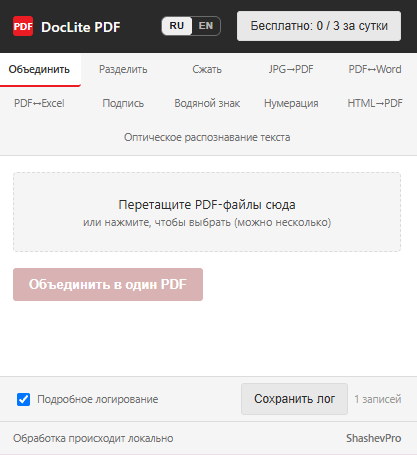
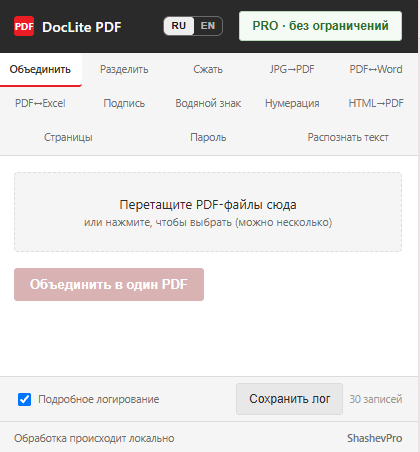
1.5.0: рабочий центр документов — страницы, пароль, печати, точный OCR

diff --git a/README.md b/README.md
@@ -4,11 +4,12 @@
 
 # DocLite PDF
 
-**Одиннадцать инструментов для работы с PDF прямо в браузере, включая
-распознавание текста (OCR). Документы обрабатываются на вашем компьютере
+**Рабочий центр документов прямо в браузере: объединение, сжатие, Word
+и Excel, подписи и печати, пароль на PDF, работа со страницами
+и распознавание текста (OCR). Документы обрабатываются на вашем компьютере
 и никуда не загружаются.**
 
-[**Установить из Chrome Web Store**](https://chromewebstore.google.com/detail/doclite-pdf-%E2%80%94-10-%D0%B8%D0%BD%D1%81%D1%82%D1%80%D1%83%D0%BC%D0%B5/jdomnjidenomgdjpmnoegpfkjmhgfngn) · [Сайт продукта](https://www.shashevpro.ru/doclite/) · [English](README.en.md)
+[**Установить из Chrome Web Store**](https://chromewebstore.google.com/detail/jdomnjidenomgdjpmnoegpfkjmhgfngn) · [Сайт продукта](https://www.shashevpro.ru/doclite/) · [English](README.en.md)
 
 </div>
 
@@ -34,21 +35,23 @@ DocLite работает внутри браузера. Файл не перед
 
 | | Что делает |
 |---|---|
-| **Объединить** | Несколько файлов в один документ, порядок задаёте сами |
+| **Объединить** | Несколько файлов в один; порядок — перетаскиванием, стрелками, с номерами |
 | **Разделить** | По страницам или диапазонам, результат одним архивом |
-| **Сжать** | Уменьшает вес, чтобы документ прошёл по ограничениям почты |
-| **JPG → PDF** | Фотографии и сканы собираются в один файл |
-| **PDF ↔ Word** | Текст с сохранением абзацев, заголовков и нумерованных пунктов |
-| **PDF ↔ Excel** | Таблицы разбираются по столбцам, числа остаются числами |
-| **Подпись** | Изображение подписи или печати в нужное место страницы |
-| **Водяной знак** | Текст или картинка, наклон и прозрачность настраиваются |
-| **Нумерация** | Номера страниц в любом углу, с любой начальной цифры |
+| **Сжать** | Уменьшает вес для почты; большие файлы сжимаются в фоне |
+| **JPG → PDF** | Фотографии и сканы в один файл, в нужном порядке |
+| **PDF ↔ Word** | Абзацы, таблицы с рамками, картинки и оформление остаются на местах |
+| **PDF ↔ Excel** | Таблицы с рамками и объединёнными ячейками, суммы и даты — значениями |
+| **Подпись и печати** | Подпись, печать, штамп «Копия верна» — на одну страницу или на все |
+| **Водяной знак** | Текст или картинка; можно сразу на несколько файлов |
+| **Нумерация** | Номера страниц в любом углу; можно сразу на несколько файлов |
 | **HTML → PDF** | Веб-страница или свой HTML сохраняется как документ |
-| **Распознавание текста (OCR)** | Скан или фото — в PDF с текстовым слоем или сразу в Word |
+| **Страницы** | Миниатюры страниц: переставить, повернуть, удалить |
+| **Пароль** | Поставить или снять пароль на PDF, шифрование AES-256 |
+| **Распознать текст (OCR)** | Скан или фото — в PDF с текстовым слоем или в Word; есть точный режим |
 
-Распознавание и конвертация больших PDF в Word идут в фоне: поставили задачу,
-закрыли окно, занимаетесь своими делами — по готовности придёт уведомление
-с предложением сохранить результат.
+Распознавание, конвертация больших PDF в Word и сжатие больших файлов идут
+в фоне: поставили задачу, закрыли окно, занимаетесь своими делами — по
+готовности придёт уведомление с предложением сохранить результат.
 
 ---
 
@@ -56,17 +59,13 @@ DocLite работает внутри браузера. Файл не перед
 
 <div align="center">
 
-| Объединение | Водяной знак |
+| Объединение | Пароль на PDF |
 |---|---|
-| <img src="screenshots/merge-ru.png" width="380"> | <img src="screenshots/watermark-ru.png" width="380"> |
+| <img src="screenshots/merge-ru.png" width="380"> | <img src="screenshots/password-ru.png" width="380"> |
 
-| Подпись | Распознавание текста (OCR) |
+| Подпись и печати | Распознавание текста (OCR) |
 |---|---|
 | <img src="screenshots/signature-ru.png" width="380"> | <img src="screenshots/ocr-ru.png" width="380"> |
-
-**Работа в фоне** — задачу можно поставить и закрыть окно, обработка продолжится:
-
-<img src="screenshots/background-ru.png" width="380">
 
 </div>
 
@@ -74,12 +73,16 @@ DocLite работает внутри браузера. Файл не перед
 
 ## Сколько стоит
 
-**Бесплатно** — три операции в сутки. Не «три инструмента из одиннадцати», а любые
+**Бесплатно** — три операции в сутки. Не «три инструмента из всех», а любые
 три: всё открыто сразу, ничего не заперто за платной стеной. Счётчик обнуляется
 каждый день, а ошибка обработки попытку не расходует.
 
 **PRO — 300 ₽ один раз.** Без подписки и автопродления. Лицензия бессрочная,
-на одно устройство.
+на одно устройство. Все инструменты, включая новые.
+
+<div align="center">
+<img src="screenshots/pro-ru.png" width="380">
+</div>
 
 ---
 
@@ -88,8 +91,10 @@ DocLite работает внутри браузера. Файл не перед
 - Содержимое документов не покидает ваш компьютер и не передаётся никому.
 - В сеть уходят только два вида запросов: проверка ключа при активации
   платной версии и — один раз, только если вы сами включите распознавание
-  текста — скачивание языковых моделей OCR (около 4 МБ на язык, дальше
-  распознавание работает офлайн).
+  текста — скачивание языковых моделей OCR (около 4 МБ на язык, для точного
+  режима около 15 МБ; дальше распознавание работает офлайн).
+- Пароль на PDF ставится и снимается на вашем компьютере: пароль никуда
+  не отправляется и нигде не сохраняется.
 - Ни аналитики, ни счётчиков, ни рекламных сетей в расширении нет.
 - Доступа к содержимому посещаемых сайтов расширение не запрашивает.
 
@@ -106,17 +111,22 @@ DocLite работает внутри браузера. Файл не перед
   объединение или разделение без сжатия.
 - **PDF → Word и PDF → Excel работают с текстовыми PDF, а не со сканами.**
   Для сканов и фото — отдельный инструмент, распознавание текста (OCR).
-- **При конвертации сохраняются абзацы и структура, но не точная вёрстка**
-  исходного документа. Рамки таблиц пока не восстанавливаются.
+- **Вёрстка при конвертации сохраняется близко к исходной, но не пиксель
+  в пиксель** — сложные документы стоит проверить глазами.
 - **OCR распознаёт русский и английский языки** и убирает явный мусор
   (узоры, печати, водяные знаки), но не гарантирует идеальный результат
-  на сильно повреждённых или очень мелких сканах. Документы с защитной сеткой
-  (бланки, паспорта) и фотографии документов — не его задача.
+  на сильно повреждённых или очень мелких сканах. Для мелкого шрифта и плохих
+  сканов есть точный режим — он медленнее примерно в 2,5 раза. Документы
+  с защитной сеткой (бланки, паспорта) распознаются лишь частично.
 - **Если в PDF уже есть текст, распознавание не запускается** — текст берётся
   из документа, это точнее любого распознавания. В документе со смешанными
   страницами распознаются только страницы без текста.
 - **Excel → PDF не переносит картинки внутри листа** (логотипы, печати)
   и колонтитулы.
+- **Снять пароль можно, только зная его.** Файл, который открывается без
+  пароля, но с ограничениями на печать или изменение, освобождается от них
+  без пароля. Другие инструменты защищённый файл не обрабатывают и
+  подсказывают сначала снять пароль.
 - **Размер файлов** — до 300 МБ на файл и до 600 МБ суммарно при объединении:
   всё обрабатывается в памяти браузера.
 

diff --git a/README.en.md b/README.en.md
@@ -4,11 +4,12 @@
 
 # DocLite PDF
 
-**Eleven tools for working with PDF files, right inside your browser,
-including text recognition (OCR). Your documents are processed on your own
-computer and are never uploaded anywhere.**
+**A document workspace right inside your browser: merge, compress, Word
+and Excel, signatures and stamps, PDF passwords, page editing and text
+recognition (OCR). Your documents are processed on your own computer and
+are never uploaded anywhere.**
 
-[**Install from the Chrome Web Store**](https://chromewebstore.google.com/detail/doclite-pdf-%E2%80%94-10-%D0%B8%D0%BD%D1%81%D1%82%D1%80%D1%83%D0%BC%D0%B5/jdomnjidenomgdjpmnoegpfkjmhgfngn) · [Product website](https://www.shashevpro.ru/doclite/en/) · [Русский](README.md)
+[**Install from the Chrome Web Store**](https://chromewebstore.google.com/detail/jdomnjidenomgdjpmnoegpfkjmhgfngn) · [Product website](https://www.shashevpro.ru/doclite/en/) · [Русский](README.md)
 
 </div>
 
@@ -34,21 +35,23 @@ Turn off your network and see for yourself.
 
 | | What it does |
 |---|---|
-| **Merge** | Several files into one document, in the order you choose |
+| **Merge** | Several files into one; set the order by dragging or with arrows |
 | **Split** | By page or by range, delivered as a single archive |
-| **Compress** | Brings the file size down so it fits an email limit |
-| **JPG → PDF** | Photos and scans collected into one document |
-| **PDF ↔ Word** | Text with its paragraphs, headings and numbered items preserved |
-| **PDF ↔ Excel** | Tables split into real columns, numbers stay numbers |
-| **Signature** | Place an image of your signature or stamp on the page |
-| **Watermark** | Text or image, with adjustable tilt and opacity |
-| **Page numbers** | Any corner, starting from any number you like |
+| **Compress** | Brings the size down for email; large files compress in the background |
+| **JPG → PDF** | Photos and scans into one document, in the order you choose |
+| **PDF ↔ Word** | Paragraphs, bordered tables, images and formatting stay in place |
+| **PDF ↔ Excel** | Tables with borders and merged cells; amounts and dates as real values |
+| **Signature & stamps** | Signature, stamp, a “True copy” certification — on one page or all |
+| **Watermark** | Text or image; several files at once |
+| **Page numbers** | Any corner, any starting number; several files at once |
 | **HTML → PDF** | Save a web page or your own markup as a document |
-| **Text recognition (OCR)** | Turn a scan or photo into a searchable PDF or a Word file |
+| **Pages** | Page thumbnails: reorder, rotate, delete |
+| **Password** | Add or remove a PDF password, AES-256 encryption |
+| **Recognize text (OCR)** | A scan or photo into a searchable PDF or Word; a precise mode too |
 
-Recognition and conversion of large PDFs to Word run in the background: queue a
-file, close the window, get on with your work — a notification will offer to
-save the result when it is ready.
+Recognition, conversion of large PDFs to Word and compression of large files
+run in the background: queue a file, close the window, get on with your work —
+a notification will offer to save the result when it is ready.
 
 ---
 
@@ -56,11 +59,11 @@ save the result when it is ready.
 
 <div align="center">
 
-| Merge | Watermark |
+| Merge | PDF password |
 |---|---|
-| <img src="screenshots/merge-en.png" width="380"> | <img src="screenshots/watermark-en.png" width="380"> |
+| <img src="screenshots/merge-en.png" width="380"> | <img src="screenshots/password-en.png" width="380"> |
 
-| Signature | Text recognition (OCR) |
+| Signature & stamps | Text recognition (OCR) |
 |---|---|
 | <img src="screenshots/signature-en.png" width="380"> | <img src="screenshots/ocr-en.png" width="380"> |
 
@@ -70,12 +73,16 @@ save the result when it is ready.
 
 ## Pricing
 
-**Free** — three operations a day. Not "three tools out of eleven", but any three:
+**Free** — three operations a day. Not "three tools out of the lot", but any three:
 everything is unlocked from the start, nothing is held behind a paywall. The
 counter resets daily, and a failed operation does not use up an attempt.
 
 **PRO — 300 RUB, paid once.** No subscription, no auto-renewal. A perpetual
-licence for one device.
+licence for one device. All tools, including new ones.
+
+<div align="center">
+<img src="screenshots/pro-en.png" width="380">
+</div>
 
 ---
 
@@ -84,8 +91,10 @@ licence for one device.
 - Document contents never leave your computer and are shared with no one.
 - Only two kinds of network request are ever made: the licence check when you
   activate the paid version, and — once, only if you turn OCR on yourself —
-  downloading the OCR language models (about 4 MB per language; after that,
-  recognition runs offline).
+  downloading the OCR language models (about 4 MB per language, about 15 MB
+  for precise mode; after that, recognition runs offline).
+- PDF passwords are added and removed on your own computer: the password is
+  never sent anywhere and never stored.
 - No analytics, no telemetry, no advertising networks.
 - The extension does not request access to the content of the sites you visit.
 
@@ -102,17 +111,22 @@ An honest note on the limits, so there are no false expectations:
   without compression.
 - **PDF → Word and PDF → Excel work with text-based PDFs, not with scans.**
   For scans and photos, use the separate text recognition (OCR) tool.
-- **Conversion preserves paragraphs and structure, but not the exact layout** of
-  the source document. Table borders are not reconstructed yet.
+- **Conversion keeps the layout close to the original, but not pixel for
+  pixel** — complex documents are worth a quick look.
 - **OCR recognizes Russian and English** and filters out obvious junk
   (patterns, stamps, watermarks), but doesn't guarantee a perfect result on
-  badly damaged or very small scans. Documents with security patterns (forms,
-  passports) and photos of documents are out of its reach.
+  badly damaged or very small scans. For small print and poor scans there is a
+  precise mode — about 2.5 times slower. Documents with security patterns
+  (forms, passports) are recognized only partly.
 - **If a PDF already has text, recognition is skipped** — the text is taken
   from the document, which beats any recognition. In a mixed document only the
   pages without text are recognized.
 - **Excel → PDF does not carry over pictures inside a sheet** (logos, stamps)
   or headers and footers.
+- **A password can only be removed if you know it.** A file that opens without
+  a password but has printing or editing restrictions can be freed of them
+  without one. Other tools do not process a protected file and suggest removing
+  the password first.
 - **File size** — up to 300 MB per file and 600 MB in total when merging:
   everything is processed in the browser's memory.
 

diff --git a/CHANGELOG.md b/CHANGELOG.md
@@ -1,5 +1,58 @@
 # История версий · Changelog
 
+## 1.5.0 — рабочий центр документов
+
+- Новое название: «DocLite PDF — рабочий центр документов» — число
+  инструментов больше не пишем, их становится больше
+  *New name: “DocLite PDF — Document Workspace”; we no longer put a tool
+  count in the name, as the number keeps growing*
+- Новый инструмент «Страницы»: миниатюры страниц — переставить, повернуть,
+  удалить мышкой; большие документы открываются быстро
+  *New tool, Pages: page thumbnails — reorder, rotate and delete with the
+  mouse; large documents open quickly*
+- Новый инструмент «Пароль»: поставить или снять пароль на PDF, шифрование
+  AES-256 на вашем компьютере. Файл, который открывается без пароля, но
+  с ограничениями на печать или изменение, освобождается от них без пароля
+  *New tool, Password: add or remove a PDF password, AES-256 encryption on
+  your computer. A file that opens without a password but has printing or
+  editing restrictions can be freed of them without one*
+- Подпись: печати и штамп «Копия верна» с должностью, фамилией и датой,
+  несколько отметок на листе, «на все страницы»
+  *Signature: stamps and a “True copy” certification with position, name and
+  date, several marks per page, “apply to all pages”*
+- Порядок документов при объединении и картинок в JPG → PDF: перетаскивание,
+  стрелки, номера
+  *Document order in Merge and image order in JPG → PDF: drag and drop,
+  arrows, numbers*
+- Точное распознавание текста для мелкого шрифта и плохих сканов (модели
+  ~15 МБ на язык, примерно в 2,5 раза медленнее)
+  *Precise text recognition for small print and poor scans (models ~15 MB
+  per language, about 2.5 times slower)*
+- Распознавание в PDF и в Word с расположением читает подготовленную копию
+  страницы, а в документ кладёт цветной оригинал: на паспортах и бланках
+  текста находится заметно больше, печати остаются цветными
+  *Recognition to PDF and to Word with layout reads a prepared copy of the
+  page but keeps the colour original in the document: noticeably more text on
+  passports and forms, stamps stay in colour*
+- Большие файлы (от 8 МБ или 40 страниц) сжимаются в фоне
+  *Large files (8 MB or 40 pages and up) are compressed in the background*
+- Водяной знак и нумерация сразу на несколько файлов — результат одним архивом
+  *Watermark and page numbers for several files at once — one archive back*
+- Защищённый PDF больше не даёт непонятную ошибку или битый файл: все
+  инструменты говорят, что файл защищён, и подсказывают вкладку «Пароль»;
+  операция не списывается
+  *A protected PDF no longer produces an obscure error or a broken file: every
+  tool says the file is protected and points to the Password tab; no
+  operation is charged*
+- Исправлено: пароли, начинающиеся с «-» или «@», не ставились
+  *Fixed: passwords starting with “-” or “@” could not be set*
+- Исправлено: при быстрой смене файла во вкладке «Страницы» порядок страниц
+  мог примениться не к тому файлу
+  *Fixed: switching files quickly on the Pages tab could apply the page order
+  to the wrong file*
+- Меньше расход памяти при сжатии и подписи больших документов
+  *Lower memory use when compressing and signing large documents*
+
 ## 1.4.1 — укрепление
 
 - Защита от уязвимости pdf.js (CVE-2024-4367): при открытии PDF запрещено
